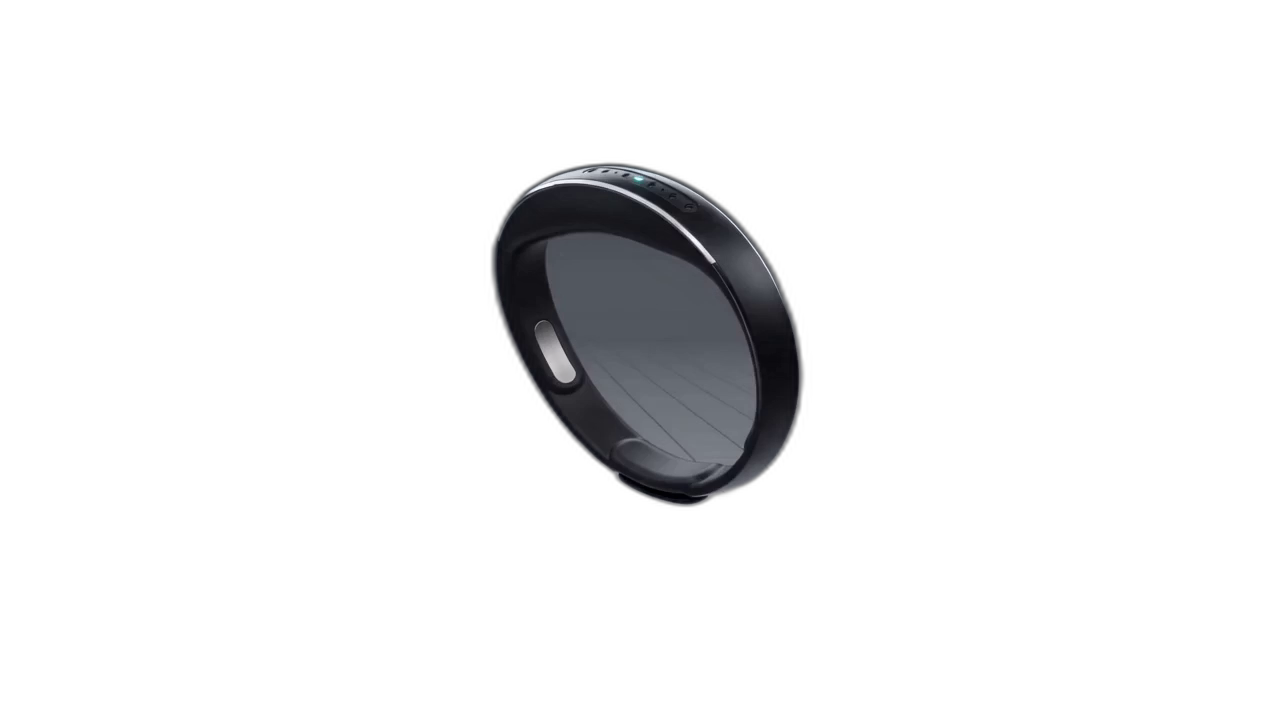
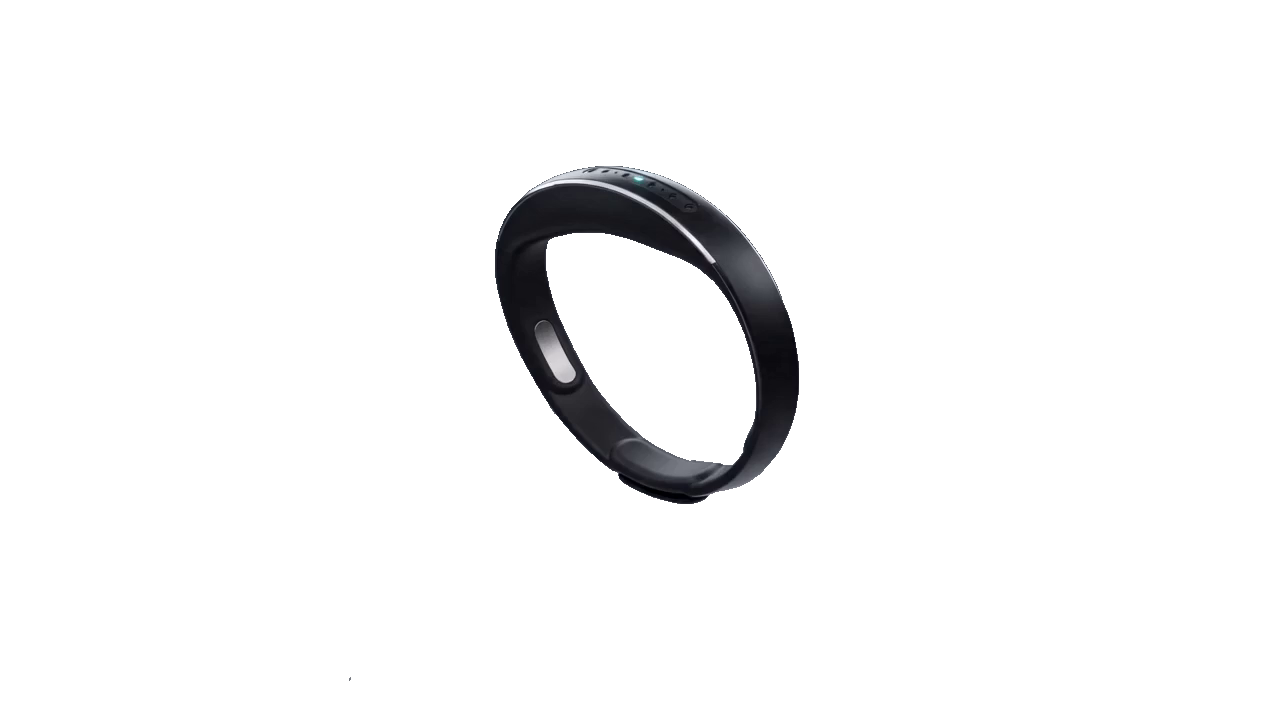
Fix ring section: invert scroll scale (large->small) + clean matte
Problem 1: ring scale now runs 1.9 -> 0.5 as scroll 0 -> 1, so it starts large
(fills the viewport) and shrinks into the lab, instead of the reverse.

Problem 2: the old cutout (u2net) retained the gray floor INSIDE the ring's
opening on head-on frames -> a visible gray box. Re-matted all 169 frames with
isnet-general-use (post-processed), which cleanly removes the floor including
the negative space. Rebuilt ro22-cutout.webp (also smaller: 4.9MB -> 2.6MB) and
the poster.

diff --git a/src/components/gallery-frame.tsx b/src/components/gallery-frame.tsx
@@ -82,17 +82,18 @@ export default function GalleryFrame() {
       const p = isReduced ? 1 : pRef.current;
       const pe = easeInOutCubic(p);
 
-      // Studio gray fades out over the first ~60% → lab (always behind) shows.
+      // Studio gray fades out as you scroll → lab (always behind) shows.
       if (studioRef.current) {
-        studioRef.current.style.opacity = String(isReduced ? 0 : 1 - smoothstep(0, 0.6, p));
+        studioRef.current.style.opacity = String(isReduced ? 0 : 1 - smoothstep(0.05, 0.65, p));
       }
       // Lab settles from a slight zoom to 1 as it's revealed.
       if (labRef.current) {
-        labRef.current.style.transform = `scale(${1.06 + (1 - 1.06) * pe})`;
+        labRef.current.style.transform = `scale(${1.08 + (1 - 1.08) * pe})`;
       }
-      // Ring floats the whole way, easing to its resting size.
+      // Ring starts LARGE (fills most of the viewport) and SHRINKS to a small
+      // resting size in the lab as progress goes 0 → 1.
       if (ringRef.current) {
-        ringRef.current.style.transform = `scale(${1.06 + (0.98 - 1.06) * pe})`;
+        ringRef.current.style.transform = `scale(${1.9 + (0.5 - 1.9) * pe})`;
       }
     };
 
